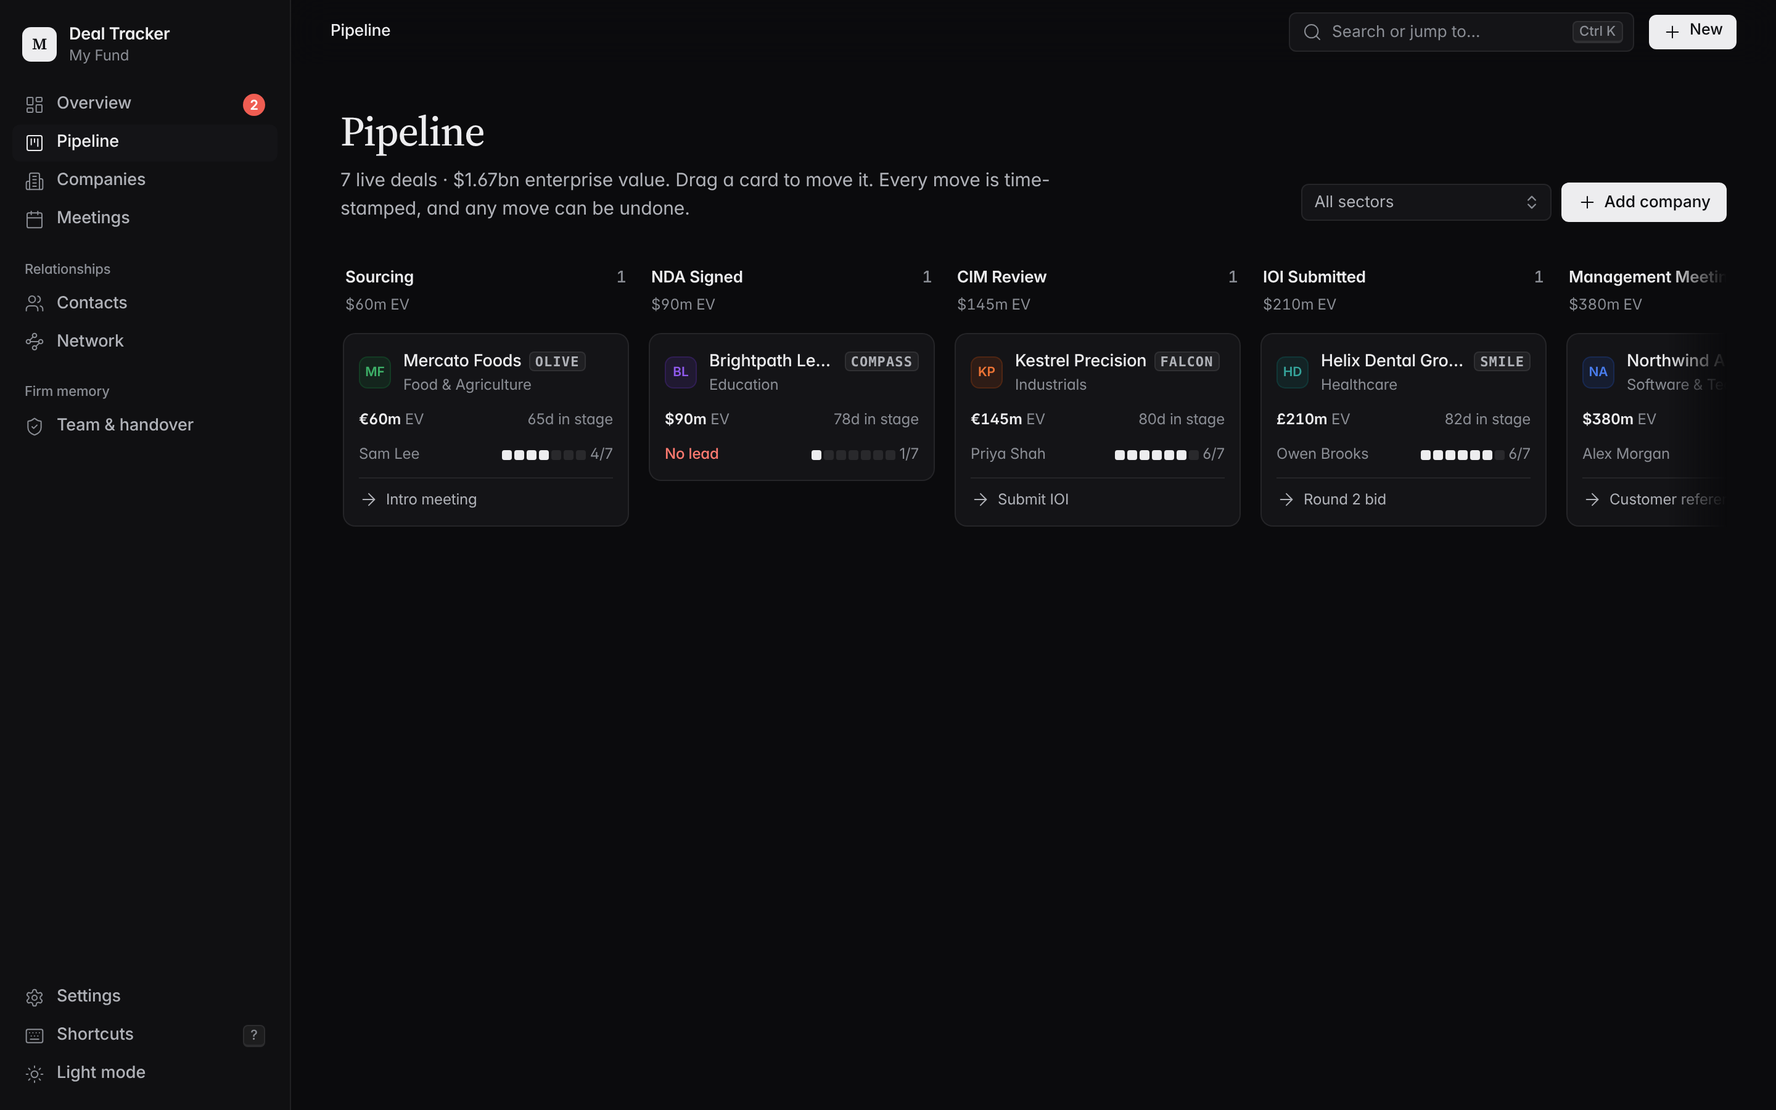
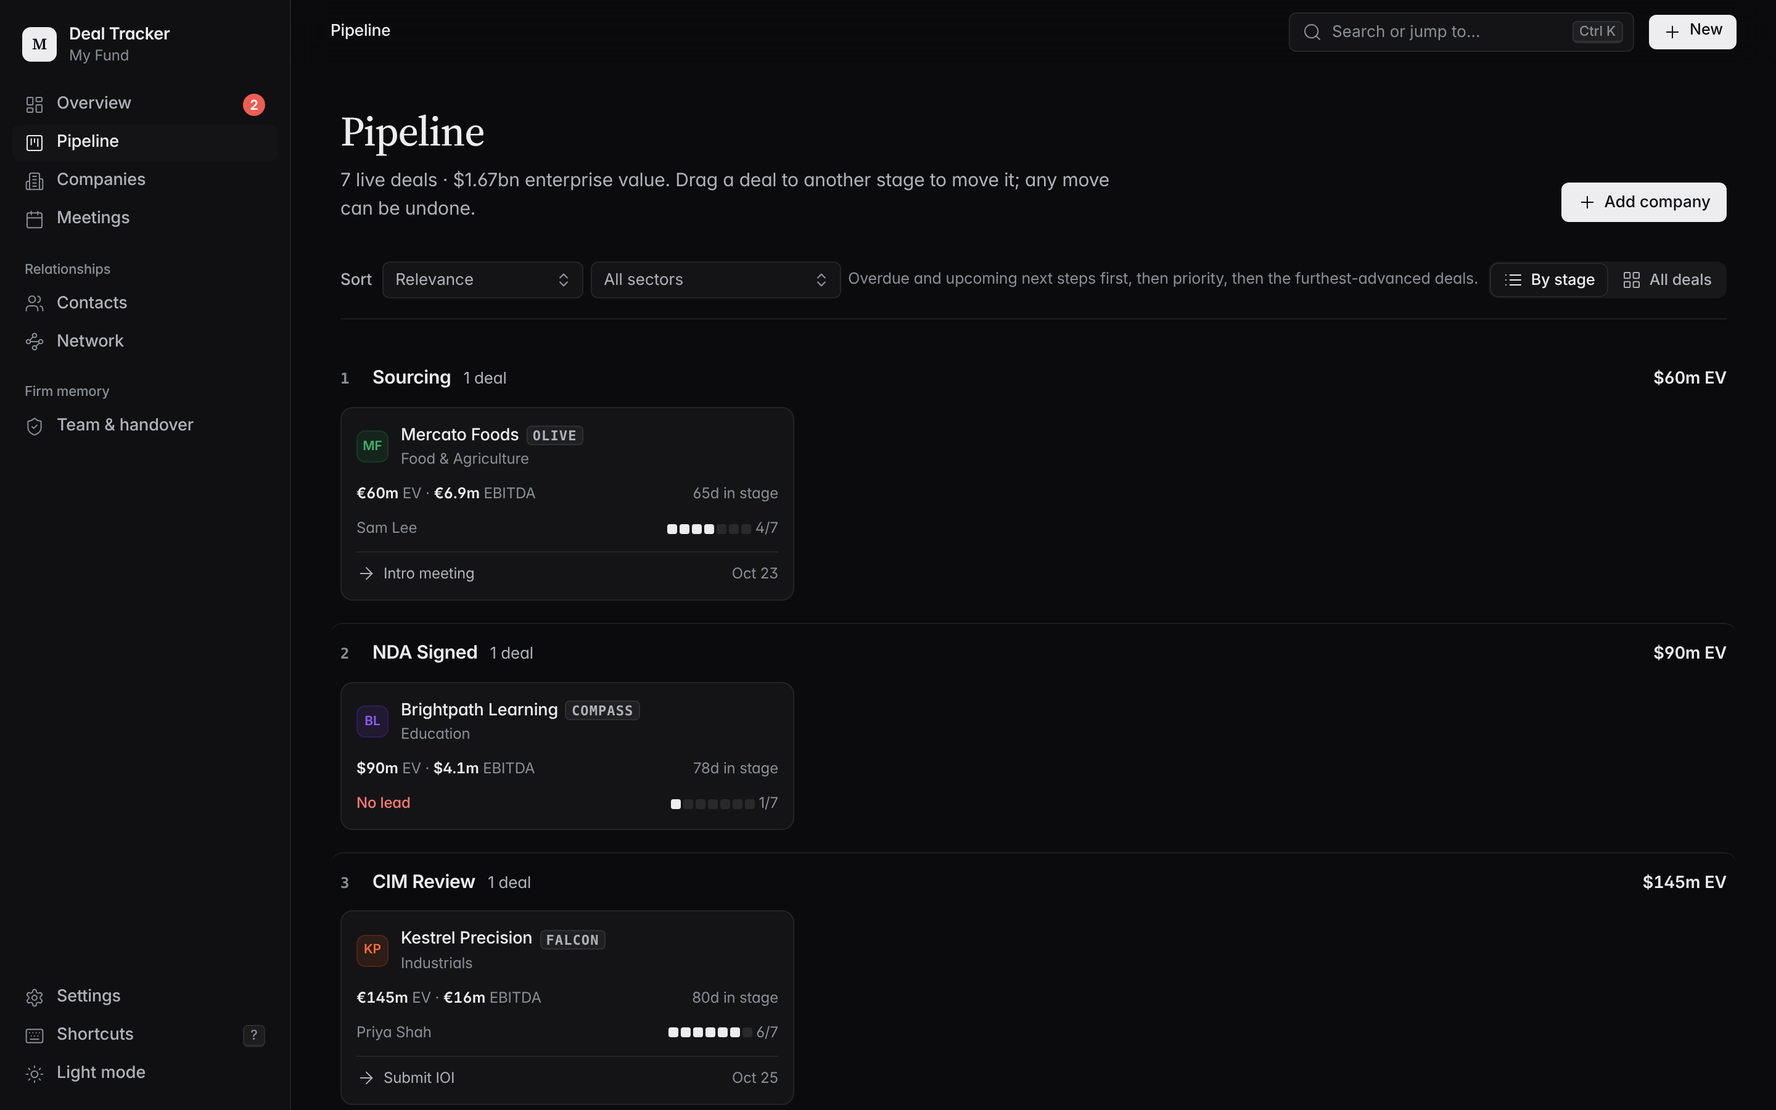
Stack pipeline stages and add a sort dropdown
The board scrolled sideways: with nine stages only four or five columns fit,
so most deals were off screen.

- Stages now stack down the page as lanes; deals in a lane wrap into a
  responsive grid, so nothing scrolls sideways at any width
- Each lane shows its stage number, deal count and EV; empty stages
  collapse to a slim drop zone
- Sort dropdown: relevance (overdue and upcoming next steps, then
  priority, then the furthest-advanced deals, then size), EV, EBITDA,
  next step, longest in stage, least documented, recently updated, name
- "By stage" / "All deals" switch: one sorted list of every live deal,
  with closed and passed deals in a collapsed section
- Cards add EBITDA and the next-step date (overdue in red)
- Drag between lanes keeps the optimistic move and Undo; sort and layout
  are remembered

Claude-Session: https://claude.ai/code/session_01L2EjSS2FrnJcv1pTyVjxMj

diff --git a/static/js/views/pipeline.js b/static/js/views/pipeline.js
@@ -1,7 +1,59 @@
 import { api, store } from '../api.js';
-import { html, $, $$, logo, money, errToast, ic, recordBar, tkr } from '../ui.js';
+import { html, $, $$, logo, money, errToast, ic, recordBar, tkr, fmtDate } from '../ui.js';
 import { quickNew, setCrumbs } from '../app.js';
 import { moveStage } from '../forms.js';
+
+// Stages stack down the page as lanes (no sideways scrolling); deals in a lane wrap into a grid.
+// The sort applies inside each lane, or across every deal when grouping is off.
+const SORTS = [
+  ['relevance', 'Relevance'],
+  ['ev', 'EV, high to low'],
+  ['ebitda', 'EBITDA, high to low'],
+  ['next', 'Next step, soonest'],
+  ['days', 'Longest in stage'],
+  ['record', 'Least documented'],
+  ['updated', 'Recently updated'],
+  ['name', 'Name, A to Z'],
+];
+const PRIO = { High: 0, Medium: 1, Low: 2 };
+const today = () => new Date().toISOString().slice(0, 10);
+const inDays = (n) => new Date(Date.now() + n * 864e5).toISOString().slice(0, 10);
+
+const prefs = { sort: 'relevance', group: 'stage' };
+try { Object.assign(prefs, JSON.parse(localStorage.getItem('dt-pipe') || '{}')); } catch { /* ignore */ }
+const savePrefs = () => { try { localStorage.setItem('dt-pipe', JSON.stringify(prefs)); } catch { /* ignore */ } };
+
+function comparator(key, stages) {
+  const by = (f, dir = 1) => (a, b) => {
+    const x = f(a), y = f(b);
+    if (x == null && y == null) return 0;
+    if (x == null) return 1;
+    if (y == null) return -1;
+    return (x < y ? -1 : x > y ? 1 : 0) * dir;
+  };
+  const then = (...cs) => (a, b) => { for (const c of cs) { const r = c(a, b); if (r) return r; } return 0; };
+  const t = today(), soon = inDays(14);
+  const stageIx = (c) => stages.indexOf(c.stage);
+  switch (key) {
+    case 'ev': return then(by((c) => c.ev, -1), by((c) => c.name));
+    case 'ebitda': return then(by((c) => c.ebitda, -1), by((c) => c.name));
+    case 'next': return then(by((c) => c.next_step_date || null), by((c) => c.name));
+    case 'days': return then(by((c) => c.days_in_stage, -1), by((c) => c.name));
+    case 'record': return then(by((c) => c.record?.done), by((c) => c.name));
+    case 'updated': return then(by((c) => c.updated_at, -1));
+    case 'name': return by((c) => c.name.toLowerCase());
+    default:
+      // Relevance: overdue next steps, then next steps due within two weeks (soonest first),
+      // then priority, then how far the deal has progressed, then size.
+      return then(
+        by((c) => (c.next_step_date && c.next_step_date < t ? 0 : 1)),
+        by((c) => (c.next_step_date && c.next_step_date <= soon ? c.next_step_date : '9999')),
+        by((c) => PRIO[c.priority] ?? 3),
+        by((c) => stageIx(c), -1),
+        by((c) => c.ev, -1),
+      );
+  }
+}
 
 export async function renderPipeline(view) {
   setCrumbs([{ label: 'Pipeline' }]);
@@ -10,62 +62,81 @@ export async function renderPipeline(view) {
   const terminal = new Set(store.meta.terminal_stages);
   const sector = sessionStorageGet('pipe-sector');
   const shown = companies.filter((c) => !sector || c.sector === sector);
+  const cmp = comparator(prefs.sort, stages);
+  const isLive = (c) => !terminal.has(c.stage) && c.status !== 'Passed';
 
-  const cols = stages.map((s) => ({ stage: s, items: shown.filter((c) => c.stage === s) }));
+  const lanes = stages.map((s, i) => ({ stage: s, ix: i + 1, terminal: terminal.has(s), items: shown.filter((c) => c.stage === s) }));
   const orphan = shown.filter((c) => !stages.includes(c.stage));
-  if (orphan.length) cols[0].items.push(...orphan);
-  const live = shown.filter((c) => !terminal.has(c.stage) && c.status !== 'Passed');
+  if (orphan.length) lanes[0].items.push(...orphan);
+  lanes.forEach((l) => l.items.sort(cmp));
+  const live = shown.filter(isLive);
   const liveEv = live.reduce((a, c) => a + (c.ev || 0), 0);
+  const flat = [...live].sort(cmp);
+  const closedOut = shown.filter((c) => !isLive(c)).sort(cmp);
 
   view.innerHTML = String(html`
     <div class="page-head">
       <div>
         <h1>Pipeline</h1>
-        <p>${live.length} live deal${live.length === 1 ? '' : 's'}${liveEv ? html` · ${money(liveEv)} enterprise value` : ''}. Drag a card to move it. Every move is time-stamped, and any move can be undone.</p>
+        <p>${live.length} live deal${live.length === 1 ? '' : 's'}${liveEv ? html` · ${money(liveEv)} enterprise value` : ''}. ${prefs.group === 'stage' ? 'Drag a deal to another stage to move it; any move can be undone.' : 'Every live deal in one list.'}</p>
       </div>
-      <div class="btn-row">
-        <select id="pipe-sector" class="compact"><option value="">All sectors</option>${store.meta.settings.sectors.map((s) => html`<option ${s === sector ? 'selected' : ''}>${s}</option>`)}</select>
-        <button class="btn primary" id="add">${ic('plus')}Add company</button>
+      <button class="btn primary" id="add">${ic('plus')}Add company</button>
+    </div>
+
+    <div class="filters pipe-bar">
+      <label class="sel-label">Sort
+        <select id="pipe-sort" class="compact">${SORTS.map(([k, l]) => html`<option value="${k}" ${k === prefs.sort ? 'selected' : ''}>${l}</option>`)}</select></label>
+      <select id="pipe-sector" class="compact ${sector ? 'set' : ''}" aria-label="Sector"><option value="">All sectors</option>${store.meta.settings.sectors.map((s) => html`<option ${s === sector ? 'selected' : ''}>${s}</option>`)}</select>
+      ${prefs.sort === 'relevance' ? html`<span class="hint">Overdue and upcoming next steps first, then priority, then the furthest-advanced deals.</span>` : ''}
+      <div class="seg" role="tablist" aria-label="Layout">
+        <button data-group="stage" class="${prefs.group === 'stage' ? 'on' : ''}" role="tab">${ic('list')}By stage</button>
+        <button data-group="flat" class="${prefs.group === 'flat' ? 'on' : ''}" role="tab">${ic('grid')}All deals</button>
       </div>
     </div>
-    <div class="board">${cols.map((col) => html`
-      <section class="col ${terminal.has(col.stage) ? 'terminal' : ''}" data-stage="${col.stage}">
-        <header class="col-head"><div class="t">${col.stage}<span data-count></span></div><small class="muted" data-ev></small></header>
-        <div class="col-body">${col.items.map(card)}<div class="col-empty">${terminal.has(col.stage) ? 'None yet' : 'Drop a deal here'}</div></div>
-      </section>`)}
-    </div>`);
-  $$('.col', view).forEach(tally);
-  const board = $('.board', view);
-  const edge = () => board.classList.toggle('at-end', board.scrollLeft + board.clientWidth >= board.scrollWidth - 4);
-  board.addEventListener('scroll', edge, { passive: true }); edge();
 
+    ${prefs.group === 'stage' ? html`
+      <div class="lanes">${lanes.map((l) => html`
+        <section class="lane ${l.terminal ? 'terminal' : ''}" data-stage="${l.stage}">
+          <header class="lane-head"><span class="ix">${l.terminal ? '–' : l.ix}</span><h2>${l.stage}</h2><span class="count" data-count></span><span class="ev" data-ev></span></header>
+          <div class="lane-body">${l.items.map((c) => card(c))}<div class="lane-empty">${l.terminal ? 'Drop a deal here to mark it ' + l.stage.toLowerCase() : 'Drop a deal here'}</div></div>
+        </section>`)}
+      </div>`
+    : html`
+      <div class="lane-body flat">${flat.map((c) => card(c, { stage: true }))}</div>
+      ${closedOut.length ? html`<details class="closed-out"><summary>Closed and passed <span class="muted">(${closedOut.length})</span></summary>
+        <div class="lane-body flat">${closedOut.map((c) => card(c, { stage: true }))}</div></details>` : ''}`}`);
+
+  $$('.lane', view).forEach(tally);
   $('#add', view).addEventListener('click', () => quickNew('company'));
   $('#pipe-sector', view).addEventListener('change', (e) => { sessionStorageSet('pipe-sector', e.target.value); renderPipeline(view); });
+  $('#pipe-sort', view).addEventListener('change', (e) => { prefs.sort = e.target.value; savePrefs(); renderPipeline(view); });
+  view.querySelectorAll('[data-group]').forEach((b) => b.addEventListener('click', () => { prefs.group = b.dataset.group; savePrefs(); renderPipeline(view); }));
 
+  if (prefs.group !== 'stage') return;
   let dragId = null;
   $$('.k-card', view).forEach((el) => {
     el.addEventListener('dragstart', (e) => { dragId = el.dataset.id; el.classList.add('dragging'); e.dataTransfer.effectAllowed = 'move'; e.dataTransfer.setData('text/plain', dragId); });
     el.addEventListener('dragend', () => el.classList.remove('dragging'));
   });
-  $$('.col', view).forEach((col) => {
-    col.addEventListener('dragover', (e) => { e.preventDefault(); col.classList.add('over'); });
-    col.addEventListener('dragleave', (e) => { if (!col.contains(e.relatedTarget)) col.classList.remove('over'); });
-    col.addEventListener('drop', async (e) => {
+  $$('.lane', view).forEach((lane) => {
+    lane.addEventListener('dragover', (e) => { e.preventDefault(); lane.classList.add('over'); });
+    lane.addEventListener('dragleave', (e) => { if (!lane.contains(e.relatedTarget)) lane.classList.remove('over'); });
+    lane.addEventListener('drop', async (e) => {
       e.preventDefault();
-      col.classList.remove('over');
+      lane.classList.remove('over');
       const id = dragId || e.dataTransfer.getData('text/plain');
       const c = companies.find((x) => String(x.id) === String(id));
       const el = view.querySelector(`.k-card[data-id="${id}"]`);
-      if (!c || !el || c.stage === col.dataset.stage) return;
+      if (!c || !el || c.stage === lane.dataset.stage) return;
       // Optimistic: the card lands immediately; the server catches up behind it.
-      const from = el.closest('.col');
-      const body = $('.col-body', col);
+      const from = el.closest('.lane');
+      const body = $('.lane-body', lane);
       body.insertBefore(el, body.firstChild);
       el.classList.remove('landed'); void el.offsetWidth; el.classList.add('landed');
-      tally(from); tally(col);
-      const revert = () => { $('.col-body', from).prepend(el); tally(from); tally(col); };
+      tally(from); tally(lane);
+      const revert = () => { $('.lane-body', from).prepend(el); tally(from); tally(lane); };
       try {
-        const updated = await moveStage(c, col.dataset.stage, { onUndo: () => renderPipeline(view) });
+        const updated = await moveStage(c, lane.dataset.stage, { onUndo: () => renderPipeline(view) });
         if (!updated) revert();
         else Object.assign(c, { stage: updated.stage, status: updated.status });
       } catch (err) { revert(); errToast(err); }
@@ -73,22 +144,23 @@ export async function renderPipeline(view) {
   });
 }
 
-function card(c) {
+function card(c, { stage = false } = {}) {
+  const overdue = c.next_step_date && c.next_step_date < today();
   return html`
-    <a class="k-card" draggable="true" data-id="${c.id}" data-ev="${c.ev || 0}" href="#/company/${c.id}" style="--c:${c.color}">
-      <div class="top">${logo(c, 'sm')}<div style="min-width:0;flex:1"><div class="nm-row"><b>${c.name}</b>${tkr(c.codename)}</div><small class="muted">${c.sector || ''}</small></div>${c.priority === 'High' ? html`<span class="prio" title="High priority">${ic('flag')}</span>` : ''}</div>
-      <div class="foot"><span><b>${money(c.ev, c.currency)}</b> EV</span><span title="Days in current stage">${c.days_in_stage ?? 0}d in stage</span></div>
+    <a class="k-card ${stage ? 'no-drag' : ''}" draggable="${stage ? 'false' : 'true'}" data-id="${c.id}" data-ev="${c.ev || 0}" href="#/company/${c.id}" style="--c:${c.color}">
+      <div class="top">${logo(c, 'sm')}<div style="min-width:0;flex:1"><div class="nm-row"><b>${c.name}</b>${tkr(c.codename)}</div><small class="muted">${stage ? c.stage : c.sector || ''}</small></div>${c.priority === 'High' ? html`<span class="prio" title="High priority">${ic('flag')}</span>` : ''}</div>
+      <div class="foot"><span><b>${money(c.ev, c.currency)}</b> EV${c.ebitda != null ? html` · <b>${money(c.ebitda, c.currency)}</b> EBITDA` : ''}</span><span title="Days in current stage">${c.days_in_stage ?? 0}d in stage</span></div>
       <div class="foot"><span>${c.deal_lead || html`<span class="overdue">No lead</span>`}</span>${c.record ? html`<span title="Deal record: ${c.record.done} of ${c.record.total} items${c.record.missing.length ? `. Missing ${c.record.missing.join(', ')}` : ''}">${recordBar(c.record.done, c.record.total)} ${c.record.done}/${c.record.total}</span>` : ''}</div>
-      ${c.next_step ? html`<div class="next">${ic('arrowRight')}<span>${c.next_step}</span></div>` : ''}
+      ${c.next_step ? html`<div class="next">${ic('arrowRight')}<span>${c.next_step}</span>${c.next_step_date ? html`<small class="${overdue ? 'overdue' : 'muted'}">${overdue ? 'Overdue · ' : ''}${fmtDate(c.next_step_date, { day: 'numeric', month: 'short' })}</small>` : ''}</div>` : ''}
     </a>`;
 }
 
-function tally(col) {
-  const cards = $$('.k-card', col);
+function tally(lane) {
+  const cards = $$('.k-card', lane);
   const ev = cards.reduce((a, el) => a + Number(el.dataset.ev || 0), 0);
-  $('[data-count]', col).textContent = cards.length;
-  $('[data-ev]', col).textContent = ev ? `${money(ev)} EV` : ' ';
-  col.classList.toggle('is-empty', !cards.length);
+  $('[data-count]', lane).textContent = `${cards.length} deal${cards.length === 1 ? '' : 's'}`;
+  $('[data-ev]', lane).textContent = ev ? `${money(ev)} EV` : '';
+  lane.classList.toggle('is-empty', !cards.length);
 }
 
 function sessionStorageGet(k) { try { return sessionStorage.getItem(k) || ''; } catch { return ''; } }

diff --git a/static/css/app.css b/static/css/app.css
@@ -474,21 +474,7 @@ svg.chart .col-group:hover .hit { fill: var(--fill); }
 /* pipeline funnel */
 
 /* ============================================================== pipeline */
-.board { display: flex; gap: 12px; overflow-x: auto; padding-bottom: 16px; align-items: flex-start; min-height: 60vh; scroll-snap-type: x proximity; scroll-padding: 0 4px;
   -webkit-mask-image: linear-gradient(90deg, #000 calc(100% - 48px), transparent); mask-image: linear-gradient(90deg, #000 calc(100% - 48px), transparent); }
-.board.at-end { -webkit-mask-image: none; mask-image: none; }
-.col { flex: 0 0 236px; scroll-snap-align: start; display: flex; flex-direction: column; max-height: calc(100vh - 200px); border-radius: var(--r-2); transition: background var(--dur-2); }
-.col.terminal { flex-basis: 208px; }
-.col.terminal .k-card { box-shadow: none; background: transparent; }
-.col-head { padding: 4px 4px 12px; display: flex; flex-direction: column; gap: 2px; }
-.col-head .t { display: flex; justify-content: space-between; align-items: center; font-weight: 600; font-size: 13px; }
-.col-head .t span { color: var(--ink-3); font-weight: 500; font-variant-numeric: tabular-nums; }
-.col-head small { font-variant-numeric: tabular-nums; font-size: 12px; }
-.col-body { padding: 2px; display: flex; flex-direction: column; gap: 8px; overflow-y: auto; min-height: 120px; flex: 1; border-radius: var(--r-2); }
-.col.over { background: var(--accent-soft); }
-.col-empty { border: 1px dashed var(--line-2); border-radius: var(--r-2); height: 72px; display: none; place-items: center; font-size: 12px; color: var(--ink-3); transition: border-color var(--dur-1), color var(--dur-1); }
-.col.is-empty .col-empty { display: grid; }
-.col.over .col-empty { border-color: var(--accent); color: var(--accent); }
 .k-card .top .prio svg.i { width: 14px; height: 14px; }
 .k-card { background: var(--surface); border: 1px solid var(--line); border-radius: var(--r-2); padding: 12px; box-shadow: var(--shadow-1); cursor: grab; display: flex; flex-direction: column; gap: 10px; color: var(--ink);
   transition: box-shadow var(--dur-2) var(--ease), transform var(--dur-2) var(--ease), border-color var(--dur-2); }
@@ -969,7 +955,35 @@ a:hover .tkr, .attn-row:hover .tkr, tr:hover .tkr { color: var(--ink); }
 .k-card .top .nm-row b { display: inline; font-weight: 500; font-size: 13.5px; }
 .co-link .tkr { margin-left: 0; }
 .chip .tkr { margin-left: 2px; padding: 2px 4px 1px; font-size: 10px; }
-.col { min-width: 0; } .col-body, .k-card { min-width: 0; } .k-card .top { overflow: hidden; }
 .deals-table td:nth-child(6) { white-space: nowrap; }
 .deals-table td, .deals-table th { padding-left: 12px; padding-right: 12px; }
 .deals-table .cell-co { min-width: 230px; }
+
+
+/* pipeline: stages stack as lanes down the page; deals wrap in a grid, so nothing scrolls sideways */
+.pipe-bar .sel-label { display: inline-flex; align-items: center; gap: 8px; font-size: 13px; font-weight: 500; color: var(--ink-2); }
+.pipe-bar .hint { font-size: 12.5px; color: var(--ink-3); }
+.lanes { display: flex; flex-direction: column; }
+.lane { border-top: 1px solid var(--line); padding: 0 8px 18px; margin: 0 -8px; border-radius: var(--r-2); transition: background var(--dur-2), box-shadow var(--dur-2); }
+.lane:first-child { border-top: 0; }
+.lane.over { background: var(--accent-soft); box-shadow: inset 0 0 0 1px var(--accent); }
+.lane-head { display: flex; align-items: baseline; gap: 10px; padding: 14px 0 12px; }
+.lane-head .ix { font: 600 12px var(--mono); color: var(--ink-3); min-width: 16px; }
+.lane-head h2 { font-size: 15px; font-weight: 600; }
+.lane-head .count { font-size: 13px; color: var(--ink-2); }
+.lane-head .ev { margin-left: auto; font-size: 13.5px; font-weight: 600; font-variant-numeric: tabular-nums; }
+.lane-body { display: grid; grid-template-columns: repeat(auto-fill, minmax(280px, 1fr)); gap: 10px; }
+.lane-empty { display: none; }
+.lane.is-empty { padding-bottom: 12px; }
+.lane.is-empty .lane-head { padding-bottom: 8px; }
+.lane.is-empty .lane-empty { display: flex; align-items: center; justify-content: center; grid-column: 1 / -1; height: 40px; border: 1px dashed var(--line-2); border-radius: var(--r-1); font-size: 12.5px; color: var(--ink-3); }
+.lane.over .lane-empty { border-color: var(--accent); color: var(--accent-ink); }
+.lane.terminal .lane-head h2, .lane.terminal .lane-head .ix { color: var(--ink-2); }
+.lane.terminal .k-card { box-shadow: none; }
+.lane-body.flat { margin-top: 4px; }
+.closed-out { margin-top: 28px; border-top: 1px solid var(--line); padding-top: 14px; }
+.closed-out summary { cursor: pointer; font-weight: 600; font-size: 14px; margin-bottom: 12px; list-style: none; }
+.closed-out summary::-webkit-details-marker { display: none; }
+.k-card .next small { margin-left: auto; flex: none; font-size: 12px; }
+@media (max-width: 600px) { .lane-body { grid-template-columns: 1fr; } .pipe-bar .hint { display: none; } }
+.k-card.no-drag { cursor: pointer; }

diff --git a/README.md b/README.md
@@ -10,7 +10,7 @@ A private, local deal-tracking app for private equity that keeps your firm's dea
 |---|---|
 | **Dashboard** | A morning read in one page: what needs attention (marked Urgent, Soon or FYI, with the date), what's coming up in the next three weeks, pipeline by stage, recent activity, and a table of live deals with EV, EBITDA, multiple, lead, next step and how complete each deal record is. Live EV and EBITDA, blended multiple and meeting counts sit at the top; sector, region, intermediary and 12-month activity breakdowns are one tab away. |
 | **Companies** | Add a company in seconds with a logo, brand colour (it can pick the colour from the logo), sector, geography, stage, priority, deal type, EV, revenue, EBITDA, advisor and next step. Switch between card and table views, filter, sort and export to CSV. |
-| **Pipeline** | A Kanban board. Drag a deal to another stage; it moves instantly and can be undone from the confirmation. Each move is time-stamped, and every company shows its stage history and days in stage. Closing a deal shows a short summary of the journey: days since first look, meetings held and people involved. |
+| **Pipeline** | Stages stack down the page, so you never scroll sideways. Drag a deal to another stage; it moves instantly and can be undone. Sort by relevance (overdue and upcoming next steps first, then priority, then the furthest-advanced deals), EV, EBITDA, next step, time in stage, how complete the deal record is, recent updates or name, or switch to one list of all live deals. Each move is time-stamped, and closing a deal shows a short summary of the journey. |
 | **CIM fact detection** | Drop in a CIM (PDF, DOCX or TXT). The app detects revenue and EBITDA (from text and from financial tables), margins, CAGR, recurring revenue, retention, customers and concentration, headcount, HQ, founding year, CEO, ownership, sell-side advisor, transaction type, bid deadline, website, sector, geographies, investment highlights and risks. **Each fact shows the source sentence, page number and a confidence score.** You tick the facts to keep. You can also create a new company straight from a CIM. |
 | **Claude analysis (optional)** | Add an Anthropic API key and click **Analyze with Claude** to have Claude read the whole document, including scanned PDFs. It adds facts with quotes, plus highlights, diligence questions and a summary. |
 | **Models** | Upload LBO or operating models. Every upload becomes a new version (v1, v2…) with a timestamp. IRR, MOIC, entry and exit multiples, entry and exit EV, leverage, equity and hold period are read from the workbook and compared with the previous version. |
